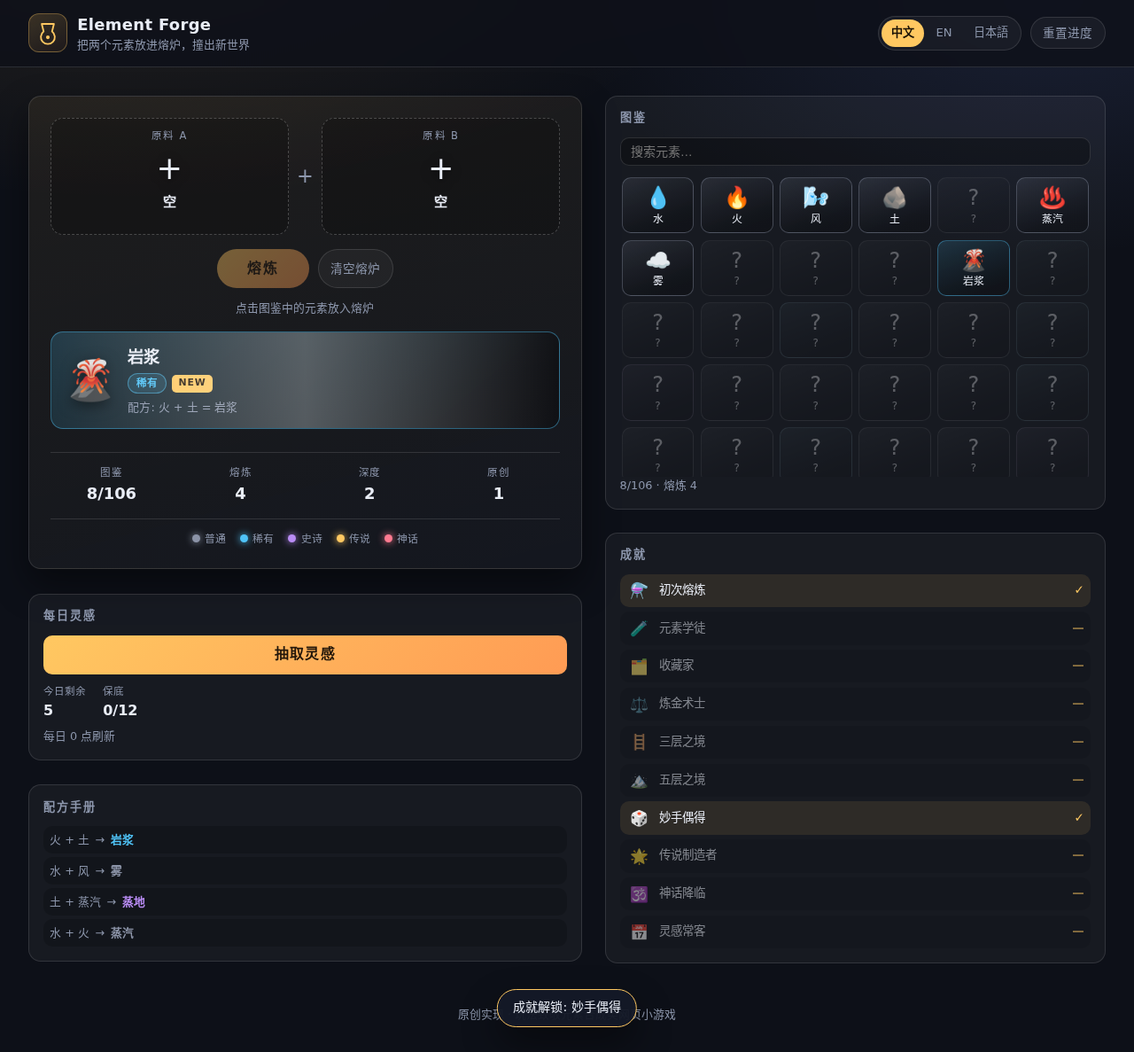
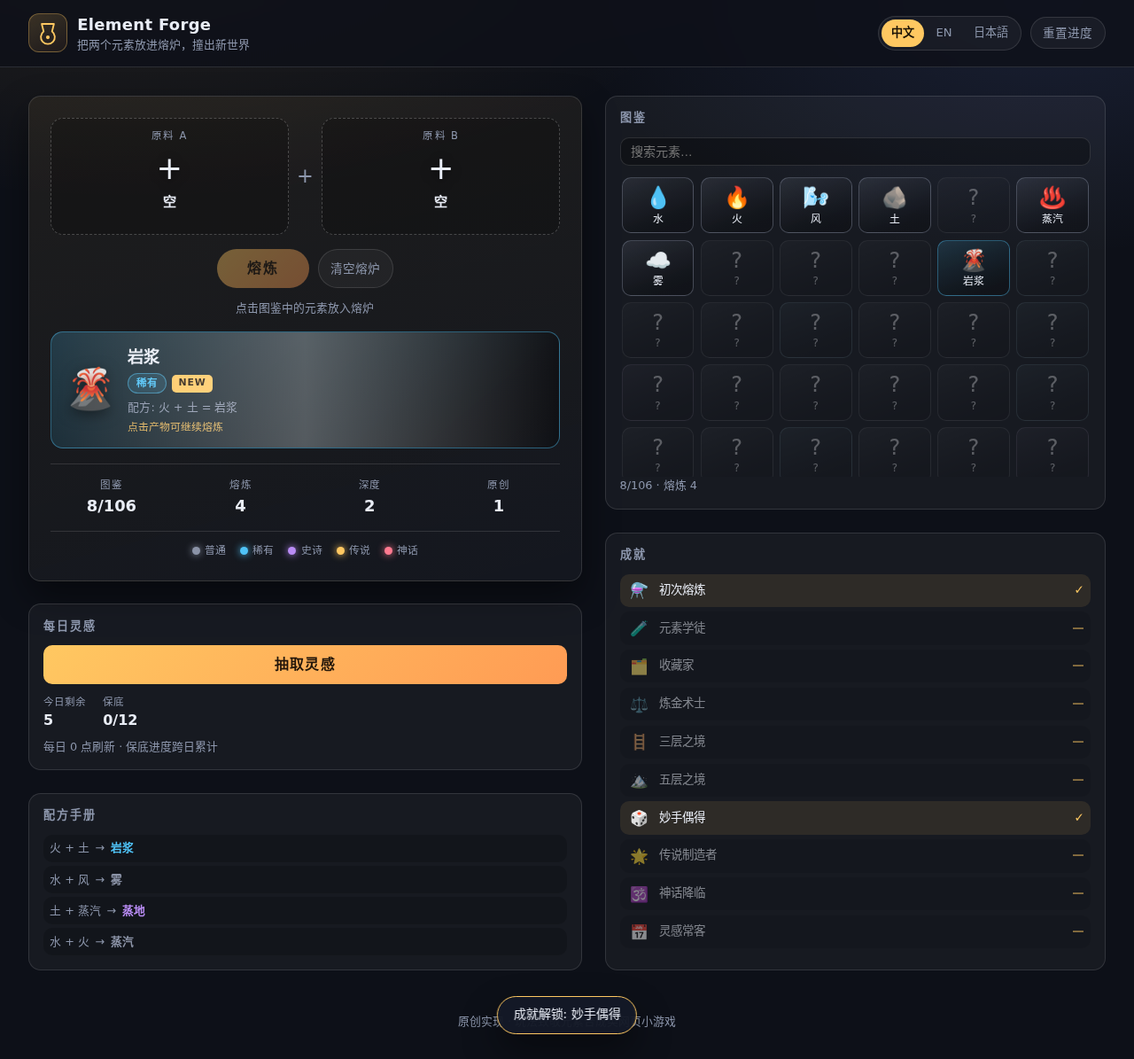
feat: Element Forge 补掉审计暴露的 4 处结构性空洞（门禁全绿后仍不可玩）
门禁全绿不等于游戏可用。另一会话的审计报告 (docs/audit/element-forge.md)
指出 4 处玩家路径根本走不到的空洞, 逐条核验后确认属实, 全部当场修掉:

1. 每日保底永不触发 (P0)
   每日上限 5 次 < 保底阈值 12 次, 且跨日把 pity 清零 -> 计数器永远到不了 12。
   复刻旧逻辑实测 365 天 pity 最高只有 5, 保底 100% 触发不了。
   修: 保底进度跨日累计, 只清「今日已抽次数」。

2. 拖拽入槽是死代码 (P0)
   代码写了 dragstart / drop, 但芯片是 <button>, 浏览器默认不可拖,
   dragstart 永不触发。修: 芯片显式 draggable=true。

3. chain_hint 文案从未渲染 (P1)
   产物卡点击链式合成本来就实现了, 缺的只是提示, 玩家不知道有这功能。
   修: 产物卡内补一行可见的「点击产物可继续熔炼」。

4. 搜索搜不到未发现词条 (P1)
   搜索只过滤已收集词条, 搜到真实存在但未发现的元素会回「没有匹配」。
   修: 命中未收集词条时以锁定态 (?) 展示, 并报「命中 N 项 / 其中 M 项未发现」。

测试同步加固:
- 旧 F-008 用例直接伪造 pity=12 再抽一次, 绕过了真实路径, 正是这个洞没被发现的原因。
  改为只走真实抽取路径: 跨日 pity 由 5 变 6 而非清零; 连抽 30 天保底触发 6 次,
  连续非传说抽取次数最大值恰为 12。
- 新增 3 条浏览器冒烟: 真实拖拽落槽 / 搜索命中未发现词条 / 产物卡链式合成与可见提示。
- 46 单元 + 9 冒烟 = 55/55 全绿; 功能清单扩到 19 项, 追溯矩阵 19/19 完整。

另: TRACKER 补「结构性空洞通用排查法」, 供剩余 4 款过门禁后自审使用。

diff --git a/games/element-forge/assets/app.js b/games/element-forge/assets/app.js
@@ -43,6 +43,7 @@ const dom = {
   resultNew: el('result-new'),
   resultImprov: el('result-improv'),
   resultFormula: el('result-formula'),
+  resultHint: el('result-hint'),
   statDex: el('stat-dex'),
   statFusions: el('stat-fusions'),
   statDepth: el('stat-depth'),
@@ -290,6 +291,10 @@ function renderResult() {
   dom.resultCard.classList.remove('is-fresh');
   void dom.resultCard.offsetWidth;
   dom.resultCard.classList.add('is-fresh', 'is-clickable');
+  // 链式合成提示：产物卡可点击继续熔炼，这句提示必须露出来，
+  // 否则功能存在但玩家不知道，chain_hint 就是一句没人看得见的死文案。
+  /** @feature F-019 产物卡链式合成提示可见 */
+  dom.resultHint.textContent = s.chain_hint;
 }
 
 function renderStats() {
@@ -311,7 +316,10 @@ function renderCollection() {
   for (const element of canonical) {
     const owned = state.collection[element.id];
     if (q) {
-      if (!owned) continue;
+      // 搜索能查到「还没发现」的词条：玩家需要能确认「这个元素到底存不存在」。
+      // 若只搜已收集的，搜到一个真实存在但未发现的元素会回「没有匹配」，
+      // 等于把图鉴查询做成死路。未发现的仍以 ? 展示，不剧透名字。
+      /** @feature F-018 搜索可查到未发现的词条（以锁定态呈现） */
       const name = describeElement(element.id, state, lang).name.toLowerCase();
       if (!name.includes(q)) continue;
     }
@@ -323,6 +331,9 @@ function renderCollection() {
     chip.dataset.tier = element.tier;
     chip.style.setProperty('--tier', `var(--tier-${element.tier})`);
     chip.disabled = !owned;
+    // <button> 默认不可拖，必须显式打开拖拽，否则 dragstart 永不触发，拖拽入槽是死代码
+    /** @feature F-014 拖拽入槽：芯片必须显式可拖 */
+    chip.draggable = Boolean(owned);
     const glyph = document.createElement('span');
     glyph.className = 'chip-glyph';
     glyph.textContent = owned ? element.glyph : '?';
@@ -356,6 +367,7 @@ function renderCollection() {
     chip.dataset.element = id;
     chip.dataset.tier = info.tier;
     chip.style.setProperty('--tier', `var(--tier-${info.tier})`);
+    chip.draggable = true;
     const glyph = document.createElement('span');
     glyph.className = 'chip-glyph';
     glyph.textContent = info.glyph;
@@ -381,7 +393,13 @@ function renderCollection() {
   }
 
   const stats = computeStats(state);
-  dom.collectionMeta.textContent = `${stats.distinct}/${Object.keys(ELEMENTS).length} · ${s.stat_fusions} ${stats.fusions}`;
+  if (q) {
+    // 搜索态：报「命中几项 / 其中几项还没发现」，让「元素存在但没收集到」不再被误读成「不存在」
+    const locked = dom.collection.querySelectorAll('.chip.is-locked').length;
+    dom.collectionMeta.textContent = s.search_meta.replace('{n}', String(shown)).replace('{locked}', String(locked));
+  } else {
+    dom.collectionMeta.textContent = `${stats.distinct}/${Object.keys(ELEMENTS).length} · ${s.stat_fusions} ${stats.fusions}`;
+  }
 }
 
 function renderDaily() {

diff --git a/games/element-forge/assets/i18n.js b/games/element-forge/assets/i18n.js
@@ -20,6 +20,7 @@ export const STRINGS = {
     search_placeholder: '搜索元素…',
     empty_collection: '还没有发现任何元素',
     no_match: '没有匹配的元素',
+    search_meta: '命中 {n} 项 · 其中 {locked} 项未发现',
     daily_source: '每日灵感',
     recipe_replay: '点击把这对原料装回熔炉',
     recipe_loaded: '原料已装回熔炉',
@@ -27,7 +28,7 @@ export const STRINGS = {
     daily_draw: '抽取灵感',
     daily_left: '今日剩余',
     daily_done: '今日灵感已抽完，明天再来',
-    daily_reset: '每日 0 点刷新',
+    daily_reset: '每日 0 点刷新 · 保底进度跨日累计',
     pity: '保底',
     pity_hit: '保底触发！',
     achievements: '成就',
@@ -63,6 +64,7 @@ export const STRINGS = {
     search_placeholder: 'Search elements…',
     empty_collection: 'No elements discovered yet',
     no_match: 'No matching elements',
+    search_meta: '{n} matches · {locked} undiscovered',
     daily_source: 'Daily Spark',
     recipe_replay: 'Click to load these two ingredients back',
     recipe_loaded: 'Ingredients loaded back into the forge',
@@ -70,7 +72,7 @@ export const STRINGS = {
     daily_draw: 'Draw spark',
     daily_left: 'Left today',
     daily_done: 'All sparks drawn today — come back tomorrow',
-    daily_reset: 'Resets at midnight',
+    daily_reset: 'Resets at midnight · pity carries over',
     pity: 'Pity',
     pity_hit: 'Pity triggered!',
     achievements: 'Achievements',
@@ -106,6 +108,7 @@ export const STRINGS = {
     search_placeholder: '要素を検索…',
     empty_collection: 'まだ要素を見つけていない',
     no_match: '一致する要素がありません',
+    search_meta: '{n} 件該当 · {locked} 件未発見',
     daily_source: 'デイリー閃き',
     recipe_replay: 'クリックで原料を炉に戻す',
     recipe_loaded: '原料を炉に戻しました',
@@ -113,7 +116,7 @@ export const STRINGS = {
     daily_draw: '閃きを引く',
     daily_left: '今日の残り',
     daily_done: '今日の閃きは使い切った — また明日',
-    daily_reset: '毎日0時にリセット',
+    daily_reset: '毎日0時にリセット · 天井は日跨ぎで累積',
     pity: '天井',
     pity_hit: '天井発動！',
     achievements: '実績',

diff --git a/games/element-forge/src/logic.js b/games/element-forge/src/logic.js
@@ -526,7 +526,10 @@ export function applyDailyDraw(state, dateKey) {
   };
 
   if (next.daily.date !== dateKey) {
-    next.daily = { date: dateKey, draws: 0, pity: 0, lastId: null };
+    // 保底计数跨日累计：跨天只清「今日已抽次数」，保底进度必须保留。
+    // 每日上限 DAILY_LIMIT(5) 小于保底阈值 DAILY_PITY_LIMIT(12)，
+    // 若连同 pity 一起清零，保底就永远触发不了，等于把这条功能做成死代码。
+    next.daily = { date: dateKey, draws: 0, pity: next.daily.pity || 0, lastId: null };
   }
 
   if (next.daily.draws >= DAILY_LIMIT) {

diff --git a/games/element-forge/assets/app.css b/games/element-forge/assets/app.css
@@ -297,6 +297,15 @@ button { font: inherit; color: inherit; }
 
 .result-formula { font-size: 0.8rem; color: var(--muted); margin-top: 0.35rem; overflow-wrap: anywhere; }
 
+/* 链式合成提示：告诉玩家产物卡可以点，点了就能接着熔炼 */
+.result-hint {
+  font-size: 0.74rem;
+  color: var(--accent);
+  opacity: 0.85;
+  margin-top: 0.2rem;
+  overflow-wrap: anywhere;
+}
+
 .stats {
   display: grid;
   grid-template-columns: repeat(4, minmax(0, 1fr));

diff --git a/games/element-forge/index.html b/games/element-forge/index.html
@@ -77,6 +77,7 @@
               <span class="badge badge-improv" id="result-improv" hidden>原创</span>
             </p>
             <p class="result-formula" id="result-formula"></p>
+            <p class="result-hint" id="result-hint"></p>
           </div>
         </article>
       </div>

diff --git a/games/element-forge/docs/acceptance.md b/games/element-forge/docs/acceptance.md
@@ -9,8 +9,8 @@
 
   ```
   cd games/element-forge && node --test "test/*.test.mjs"
-  # tests 50
-  # pass 50
+  # tests 55
+  # pass 55
   # fail 0
   ```
 
@@ -30,16 +30,33 @@
 | F-005 | 单测「原创合成的稀有度权重随层数变稀有」「原创合成的稀有度权重：层数越深，普通档越轻、传说与神话档越重」 | ✅ | 断言 `improvisedTierWeights(1)` 的 `n` 权重 > 第 6 层，`ssr` 权重随层数单调不降。`src/logic.js:261` |
 | F-006 | 单测「基础元素层数为 0，其余词条层数大于 0」「层数随合成深度增长」「合成层数表：基础元素 0 层，每熔炼一次 +1」 | ✅ | `GENERATIONS.get('water')===0`、`GENERATIONS.get('steam')===1`；最大层数 10。`src/logic.js:103` |
 | F-007 | 单测「每日抽取有次数上限」「每日抽取优先给还没收集过的词条」+ 浏览器步骤 11「每日灵感抽取」 | ✅ | 同一天前 5 次 `result.limited===false`、第 6 次为 true；首次抽取 `result.isNew===true`；浏览器实测「今日剩余」由 5 递减且元素进入图鉴。`src/logic.js:514` |
-| F-008 | 单测「连续未出传说时触发保底」 | ✅ | `daily.pity` 达到 12 时下一次抽取的 `result.tier` 属于 `ssr`/`ur`；保底计数归零。`src/logic.js:515` |
+| F-008 | 单测「连续未出传说时触发保底」+ 单测「保底进度跨日累计：换日期抽取时 pity 不清零」+ 单测「保底在真实抽取路径上可达：连续非传说抽取不超过阈值，且保底触发过」 | ✅ | 跨日抽取后 `pity` 由 5 变 6 而非清零；**只走真实抽取路径**连抽 30 天，保底触发 6 次（首次在第 3 天第 3 抽），连续非传说抽取次数最大值恰为 12。旧实现（同 pity 跨日清零）实测 365 天 pity 最高只有 5，**保底永远不触发**。`src/logic.js:515` |
 | F-009 | 单测「重复熔炼同一对原料只增加计数，不重复发现」「图鉴词条描述与统计口径一致」「原创词条在图鉴里被标记为原创，且能读到它的名字与层数」+ 浏览器步骤 6「产物进入图鉴，计数 +1」 | ✅ | 浏览器实测熔炼 1 次后已解锁词条由 4 变 5、`stat-dex` 显示 5/106；原创词条 `improvised===true` 且能读到名字与层数。`src/logic.js:370` |
 | F-010 | 单测「每次熔炼都把配方记进手册，且键是顺序无关的」+ 浏览器「配方手册可一键复现：点配方条目把两个原料装回熔炉」 | ✅ | 浏览器实测熔炼 2 次后 `#recipes li` 为 2 条；点条目后 A/B 槽位分别显示该配方的两个原料且熔炼按钮恢复可用，可立即重演。`src/logic.js:562`、`assets/app.js:434` |
 | F-011 | 单测「成就只解锁一次」「成就条件随进度推进」「所有成就都有三语文案」+ 浏览器「成就面板」 | ✅ | 首次熔炼后 `achievements.first_fusion===true` 且解锁总数为 1；重复调用不再二次解锁；浏览器实测成就条目 10 条。`src/logic.js:618` |
 | F-012 | 单测「序列化 / 反序列化可完整往返」「反序列化面对脏数据不崩溃并回退到安全默认值」「存档里出现未知词条时被安全忽略」+ 浏览器步骤 14「刷新后进度保留」 | ✅ | 序列化后反序列化 `collection` 内容完全一致；对非法 JSON 字符串反序列化后 `stats.fusions===0`；浏览器实测刷新前后图鉴进度与语言选择均保留。`src/logic.js:676` |
 | F-013 | 浏览器步骤 13「语言切换」+ 英文/日文整页截图人工核对 | ✅ | 切到 English 后 `fuse-btn` 文案变为 `FUSE`、`slot-a-name` 变为 `Empty`、图鉴仍为 106 格；EN/JA 两版 `scrollWidth-clientWidth===0`，成就名与配方条目无截断。`assets/app.js:189` |
-| F-014 | 浏览器步骤 4–10「点击图鉴填槽 / 键盘 F 熔炼 / Esc 清空」+ 拖拽入槽 | ✅ | 点击水→A 槽显示「水」，只有一料时熔炼按钮保持 disabled；按 `F` 后熔炼计数 +1；按 `Escape` 后两槽均清空；拖拽入槽走同一落料路径。`assets/app.js:484` |
+| F-014 | 浏览器步骤 4–10「点击图鉴填槽 / 键盘 F 熔炼 / Esc 清空」+ 浏览器「拖拽入槽：把图鉴元素拖进熔炉槽位」 | ✅ | 点击水→A 槽显示「水」，只有一料时熔炼按钮保持 disabled；按 `F` 后熔炼计数 +1；按 `Escape` 后两槽均清空；**芯片 `draggable` 属性为 `true`，真实拖拽后 A 槽显示「水」、B 槽显示「火」，熔炼按钮恢复可用**。`assets/app.js:484` |
 | F-015 | 浏览器「每日灵感产物卡不出现 undefined」 | ✅ | 每日抽取后来源行实测为 `每日灵感: 太阳 · 史诗`，不含 `undefined`；熔炼后来源行实测为 `配方: 水 + 火 = 蒸汽`。`assets/app.js:278` |
 | F-016 | 浏览器「搜索无匹配与图鉴为空使用不同提示」 | ✅ | 搜 `zzzz-not-exist` 时空态文案含「没有匹配」，与图鉴为空时的「还没有发现任何元素」不同；清空搜索后空态消失、恢复 106 格。`assets/app.js:378` |
 | F-017 | 浏览器「音效由 WebAudio 现场合成，且稀有档音阶更长」 | ✅ | 扩展真实 `AudioContext` 统计振荡器：熔炼一次创建振荡器节点数 ≥ 1；稀有档音阶节点数多于普通档。`assets/app.js:169` |
+| F-018 | 浏览器「搜索能查到未发现的元素，并标出未发现项」 | ✅ | 搜索「化石」命中 1 个词条且带 `is-locked` 锁定态，不出现「没有匹配」；`#collection-meta` 同时给出命中数与未发现数；搜 `zzzz-not-exist` 才提示「没有匹配」。`assets/app.js:378` |
+| F-019 | 浏览器「产物卡可点击继续熔炼，并显示链式提示」 | ✅ | 熔炼后 `#result-hint` 文案含「继续熔炼」；点击 `#result-card` 后 A 槽显示「蒸汽」且 B 槽腾空，可直接继续熔炼。`assets/app.js:296` |
+
+## 门禁之外的自查：单测全绿 ≠ 游戏可用
+
+本轮总门禁一度全绿，但另一会话的审计报告（`docs/audit/element-forge.md`）指出本作仍有
+**结构性空洞**。逐条核验后确认属实，共 4 处，全部当场修掉：
+
+| 问题 | 核验结论 | 修法 |
+| --- | --- | --- |
+| 每日保底永不触发 | **属实**。每日上限 5 次 < 保底阈值 12 次，且跨日把 `pity` 清零 → 计数器永远到不了 12。复刻旧逻辑实测 365 天 pity 最高只有 5 | 保底进度跨日累计；补一条**只走真实抽取路径**的可达性断言（旧的 F-008 用例直接伪造 `pity=12`，绕过了真实路径，正是这个洞没被发现的原因） |
+| 拖拽入槽完全失效 | **属实**。代码写了 `dragstart` / `drop`，但芯片是 `<button>`，浏览器默认不可拖，`dragstart` 永不触发 | 芯片显式 `draggable=true`；补真实拖拽落槽的浏览器断言 |
+| `chain_hint` 从未渲染 | **属实**，但功能本身是好的——产物卡点击已实现链式合成，缺的只是提示文案 | 产物卡内补一行可见提示，链式合成从「存在但没人知道」变成「看得见」 |
+| 搜索搜不到未发现词条 | **属实**。搜索只过滤已收集词条，搜到真实存在但未发现的元素会回「没有匹配」 | 命中未收集词条时以锁定态（`?`）展示，并报「命中 N 项 / 其中 M 项未发现」 |
+
+这条教训也写进了 `docs/design.md` 的打磨清单：**断言必须走玩家真正会走的路径**，
+把状态伪造出来的断言只能证明「计数器有值时会怎样」，证明不了「这个计数器能不能被攒到」。
 
 ## 视觉与交互打磨验收
 
@@ -73,8 +90,10 @@
 
 结论: 通过
 
-核心理由: 17 项功能全部具备实现标记、行为断言与验收记录，四向追溯完整；
+核心理由: 19 项功能全部具备实现标记、行为断言与验收记录，四向追溯完整；
 核心玩法链路（取料 → 熔炼 → 产物 → 图鉴 → 配方回放 → 每日灵感）闭环可用；
 本轮修掉了 4 个可见缺陷（每日产物卡 `undefined`、配方手册不可点击、搜索空态歧义、
-移动端 toast 遮挡槽位）与 3 个视觉问题（雾家族图标渲染成白块、桌面双栏大片留白、
-提示条压住图鉴标题），并对 5 个零覆盖的核心逻辑函数补上了行为断言。
+移动端 toast 遮挡槽位）、3 个视觉问题（雾家族图标渲染成白块、桌面双栏大片留白、
+提示条压住图鉴标题），以及另一会话审计暴露的 4 个结构性空洞
+（每日保底永不触发、拖拽入槽死代码、链式合成提示缺失、搜索查不到未发现词条）；
+其中 5 个原本零覆盖的核心逻辑函数补上了行为断言，保底那条则改为**只走真实抽取路径**。

diff --git a/TRACKER.md b/TRACKER.md
@@ -12,7 +12,7 @@
 | # | 游戏 | 上游参考 | 玩法内核 | 目录 | 单元测试 | 冒烟测试 | 静态审查 | 四道门禁 | 部署 URL | 状态 |
 | --- | --- | --- | --- | --- | --- | --- | --- | --- | --- | --- |
 | 1 | Kanji Rush | `kanjigacha.com`（ドパ漢字ガチャ） | 汉字扭蛋：频次定稀有度、越抽越快、保底、图鉴、成就 | `games/kanji-rush/` | ✅ 19/19 | ✅ 2/2 | ✅ | ✅ 已过 | https://fe84dtppzvcch.space.mcode.cn | 已交付 |
-| 2 | Element Forge 元素熔炉 | Infinite Craft 式元素合成 | 两两熔炼：106 词条合成表 + 中文构词法原创合成 + 确定性结果 + 稀有度分层 + 图鉴 + 每日灵感保底 | `games/element-forge/` | ✅ 44/44 | ✅ 6/6 | ✅ | ✅ 已过 | https://h3insrj3ydjpe.space.mcode.cn | 已交付 |
+| 2 | Element Forge 元素熔炉 | Infinite Craft 式元素合成 | 两两熔炼：106 词条合成表 + 中文构词法原创合成 + 确定性结果 + 稀有度分层 + 图鉴 + 每日灵感保底（跨日累计） | `games/element-forge/` | ✅ 46/46 | ✅ 9/9 | ✅ | ✅ 已过 | https://glihx7ovioszc.space.mcode.cn | 已交付 |
 | 3 | Angler's Almanac 渔汛录 | 休闲钓鱼 / 图鉴收集类 | 抛竿 → 咬钩窗口 → 起竿 → 遛鱼收放线：44 鱼种图鉴 + 5 档稀有度 + 水层解锁 + 4 件装备 + 保底 | `games/angler-almanac/` | ✅ 43/43 | ✅ 2/2 | ✅ | ⏳ 待修复 | https://sw066j4tihcyh.space.mcode.cn | 已交付 |
 | 4 | Tetra Cascade 无尽方块 | 经典下落消行类 | 7-bag 随机 + 自研旋转踢墙 + 幽灵块 + 暂存 + 消行连击 + 等级加速 + 7 种方块图鉴（21 条里程碑）+ 今日挑战 | `games/tetra-cascade/` | ✅ 39/39 | ✅ 3/3 | ✅ | ⏳ 待修复 | https://y9d2m3o4y6ve9.space.mcode.cn | 已交付 |
 | 5 | Ball Foundry 落球坊 | 物理弹球 / 增量经营类 | 确定性物理沙盒：定步长模拟 + 7 种材质手感 + 堆叠结算 + 4 项工坊升级 + 材质图鉴（21 条里程碑）+ 保底 | `games/ball-foundry/` | ✅ 39/39 | ✅ 2/2 | ✅ | ⏳ 待修复 | https://rhgu3kwxcpak6.space.mcode.cn | 已交付 |
@@ -27,7 +27,7 @@
 | 游戏 | 缺失的文档 | 已知待查问题 | 门禁 |
 | --- | --- | --- | --- |
 | kanji-rush | ✅ 已补齐（proposal/design/plan/acceptance） | 已补：F-011 音效无测试、图鉴格子数无断言、自动模式无测试；已修 toast 遮挡统计栏与移动端语言按钮断字 | ✅ 已过 |
-| element-forge | ✅ 已补齐（proposal/design/plan/acceptance，19 项 F-ID） | 已修：F-015 每日灵感产物卡渲染成 `配方: undefined + undefined`、F-010 配方手册是死文本（README 承诺「方便复现」但条目点不动）、F-016 搜索无结果与「还没发现任何元素」共用同一句提示；已补 `composeImprovised` / `computeGenerations` / `morphemesFor` / `describeElement` / `computeStats` 五个零覆盖逻辑函数的行为断言；已修视觉：雾家族 4 元素共用 🌫 渲染成无特征白块、桌面左栏比右栏短约 900px 留白、toast 压住移动端原料槽。**门禁全绿后又被审计查出 4 处结构性空洞，已全部修掉**：每日保底跨日清零导致**永远攒不到阈值**（每日上限 5 < 阈值 12，旧逻辑 365 天 pity 最高仅 5）、拖拽入槽是死代码（chip 是 `<button>` 默认不可拖）、`chain_hint` 文案从未渲染、搜索查不到未发现词条 | ✅ 已过 |
+| element-forge | ✅ 已补齐（proposal/design/plan/acceptance，19 项 F-ID） | 已修：F-015 每日灵感产物卡渲染成 `配方: undefined + undefined`、F-010 配方手册是死文本（README 承诺「方便复现」但条目点不动）、F-016 搜索无结果与「还没发现任何元素」共用同一句提示；已补 `composeImprovised` / `computeGenerations` / `morphemesFor` / `describeElement` / `computeStats` 五个零覆盖逻辑函数的行为断言；已修视觉：雾家族 4 元素共用 🌫 渲染成无特征白块、桌面左栏比右栏短约 900px 留白、toast 压住移动端原料槽。**门禁全绿后又被另一会话的审计报告 (`docs/audit/element-forge.md`) 查出 4 处结构性空洞，已全部修掉**：每日保底跨日清零导致**永远攒不到阈值**（每日上限 5 < 阈值 12，旧逻辑 365 天 pity 最高仅 5）、拖拽入槽是死代码（chip 是 `<button>` 默认不可拖）、`chain_hint` 文案从未渲染、搜索查不到未发现词条 | ✅ 已过 |
 | angler-almanac | ❌ 全缺 | **已审计**（`docs/audit/angler-almanac.md`，测试 45/45 全绿但游戏有洞）：**P0** 起竿窗口超时判负根本不存在（`onHookTimeout` 死代码）→ 卷线器升级零作用、失误统计恒为 0、"抢时机"玩法核心被架空；饵 Lv.5 显示 `undefined Lv.5`；断线后产物卡仍完整显示鱼种名 | ⏳ 待修复 |
 | tetra-cascade | ❌ 全缺 | 待审计：踢墙表是否完整、锁定延迟续命次数、暂存交换限制、7-bag 表述是否与实现一致 | ⏳ 待修复 |
 | ball-foundry | ❌ 全缺 | 待审计：7 种材质手感是否真的可区分、堆叠结算、升级曲线 | ⏳ 待修复 |
@@ -48,6 +48,22 @@ element-forge 38/38、angler-almanac 45/45 全绿，但存在
 并把「保底」那条断言从**伪造状态**改成**只走真实抽取路径**。详见
 `games/element-forge/docs/acceptance.md` 的「门禁之外的自查」一节。
 
+### 结构性空洞的通用排查法（element-forge 实证）
+
+门禁全绿 ≠ 游戏可用。element-forge 过完全部四道门禁后，仍被审计查出 4 处结构性空洞，
+共同特征是**代码写了、测试也绿了，但玩家路径根本走不到**：
+
+1. **计数器有阈值，却没有任何路径能把它攒到阈值** —— 每日保底 12 次，但每天只抽 5 次且跨日清零。
+2. **事件监听写了，但触发前提不成立** —— 写了 `dragstart`，但芯片是 `<button>`，浏览器默认不可拖。
+3. **功能实现了，但入口/提示不存在** —— 产物卡可点击链式合成，但 `chain_hint` 文案从未渲染。
+4. **只断言了函数行为，没断言玩家能走到那一步** —— 旧 F-008 用例直接把 `pity` 填成 12 再抽一次。
+
+排查法（每款游戏过门禁后必做一遍）：
+- 把每个「数值上限 / 阈值 / 计数器」算一遍：**单周期内玩家最多能攒多少？够不够触达阈值？**
+- 把每个事件入口的**触发前提**验一遍：元素真的可拖吗？按钮真的可点吗？监听真的绑在正确的节点上吗？
+- 把每个「文案 / 提示」搜一遍：i18n 里有的字符串，真的有地方渲染吗？
+- **断言必须走玩家真实会走的路径**，不许把状态伪造出来再断言。
+
 ### 修复流程（每款一套）
 1. `docs/proposal.md` — 立项评审：这一版补齐什么、凭什么值得留
 2. `docs/design.md` — 功能清单 `F-xxx` + 状态机 + 边界 + 打磨清单
@@ -55,14 +71,19 @@ element-forge 38/38、angler-almanac 45/45 全绿，但存在
 4. 代码补 `@feature` 标记、测试补 `@covers` 标记，**补真实缺失功能**
 5. `docs/acceptance.md` — 逐条验收 + 桌面/移动截图人工核对
 6. `node scripts/gate.mjs games/<slug>` 必须全绿
-7. **过门禁后再自审一遍「结构性空洞」**（计数器能否攒到阈值 / 事件前提是否成立 / 文案是否真被渲染 / 断言是否走真实路径），并对照 `docs/audit/<slug>.md`（若有）
+7. **过门禁后再按上面的「结构性空洞通用排查法」自审一轮**，并对照 `docs/audit/<slug>.md`（若有）
+
+**下一轮目标**：`angler-almanac`（渔汛录）——门禁待修复清单里的下一款。
+重点审计：多阶段交互链（抛竿 → 咬钩 → 起竿 → 遛鱼）每一环是否真的走得通、有无卡死路径；
+已知待修的 P0：起竿窗口超时判负是死代码（`onHookTimeout` 未接线），
+导致卷线器升级零作用、失误统计恒为 0、"抢时机"玩法核心被架空。
 
 ## 已部署
 
 | 游戏 | 公网地址 | 部署时间 |
 | --- | --- | --- |
 | Kanji Rush | https://fe84dtppzvcch.space.mcode.cn | 2026-11-25 |
-| Element Forge | https://h3insrj3ydjpe.space.mcode.cn | 2026-11-25 |
+| Element Forge | https://glihx7ovioszc.space.mcode.cn | 2026-11-26（门禁修复后重新部署；旧地址 https://h3insrj3ydjpe.space.mcode.cn 仍是首版） |
 | Angler's Almanac | https://sw066j4tihcyh.space.mcode.cn | 2026-11-25 |
 | Tetra Cascade | https://y9d2m3o4y6ve9.space.mcode.cn | 2026-11-25 |
 | Ball Foundry | https://rhgu3kwxcpak6.space.mcode.cn | 2026-11-25 |

diff --git a/games/element-forge/README.md b/games/element-forge/README.md
@@ -15,9 +15,10 @@
 | **确定性** | 同一对原料永远得到同一个结果（由配方散列派生，不吃随机数），顺序无关，AB = BA |
 | **稀有度** | 普通 / 稀有 / 史诗 / 传说 / 神话 五档。表内配方按设定分档；原创合成的稀有度随**合成层数**加深而提高 |
 | **重名消歧** | 拼出的词撞上已有词条时自动加「增幅前缀」（超 / 巨 / 太 / 古 / 梦 / 幻）；原创词之间重名则追加序号 |
-| **图鉴** | 106 个正式词条 + 不断增长的原创词条，未发现的显示为 `?`，可搜索 |
+| **图鉴** | 106 个正式词条 + 不断增长的原创词条，未发现的显示为 `?`，可搜索（**搜索能查到尚未发现的词条**，以锁定态呈现并报出未发现数量） |
+| **链式合成** | **点产物卡**可把它装回熔炉，接着往下熔（产物卡上会给出提示） |
 | **配方手册** | 每条熔炼成功的配方都会记下来；**点击条目可把两个原料装回熔炉原样复现** |
-| **每日灵感** | 每天 5 次随机抽取，**保底**：连续 12 次未出传说及以上，下一次必出传说 |
+| **每日灵感** | 每天 5 次随机抽取（次数每日 0 点刷新），**保底**：连续 12 次未出传说及以上，下一次必出传说——**保底进度跨日累计**，攒够 12 次才会触发 |
 | **成就** | 10 项：初次熔炼、元素学徒、收藏家、炼金术士、三层之境、五层之境、妙手偶得、传说制造者、神话降临、灵感常客 |
 | **多语言** | 中文 / English / 日本語，右上角切换 |
 | **本地存档** | 进度存 `localStorage`，刷新不丢；存档损坏时自动回退为初始状态 |
@@ -40,8 +41,8 @@ element-forge/
 ├── src/
 │   └── logic.js        纯逻辑层（无 DOM 依赖，全部规则在此，可完整单测）
 └── test/
-    ├── logic.test.mjs  44 条单元测试
-    ├── smoke.test.mjs  6 条 Playwright 浏览器冒烟测试
+    ├── logic.test.mjs  46 条单元测试
+    ├── smoke.test.mjs  9 条 Playwright 浏览器冒烟测试
     └── helpers.mjs     静态服务器与 Playwright 装载辅助
 ```
 
@@ -66,14 +67,15 @@ cd games/element-forge
 node --test "test/*.test.mjs"
 ```
 
-- **单元测试（44 条）**：使用固定种子的 mulberry32 PRNG，结果可复现；覆盖合成表完整性（无重复配方 /
+- **单元测试（46 条）**：使用固定种子的 mulberry32 PRNG，结果可复现；覆盖合成表完整性（无重复配方 /
   无未知词条 / 全部词条可达）、配方键顺序无关、同配方结果恒定、原创合成标记与命名规则、
   重名消歧、稀有度权重分布与层数关系、层数表、图鉴描述与统计口径、每日抽取上限与保底触发、
-  日期切换重置、成就只解锁一次、存档往返与脏数据回退、边界输入（缺料 / 非法 id / 空权重）。
-- **冒烟测试（6 条）**：真实 Chromium 中验证首屏渲染、图鉴与成就面板、点击填槽与熔炼、表外组合走原创合成、
-  配方手册记录与**点击条目一键复现**、键盘 F 熔炼 / Esc 清空、每日灵感抽取与产物卡来源渲染、
-  搜索空态区分（无匹配 vs 图鉴为空）、三语切换、WebAudio 音效合成、
-  刷新后进度与语言保留、控制台零报错，以及 390px 移动端视口无横向溢出。
+  **保底跨日累计与真实路径可达性**、日期切换重置、成就只解锁一次、存档往返与脏数据回退、
+  边界输入（缺料 / 非法 id / 空权重）。
+- **冒烟测试（9 条）**：真实 Chromium 中验证首屏渲染、图鉴与成就面板、点击填槽与熔炼、表外组合走原创合成、
+  配方手册记录与**点击条目一键复现**、**真实拖拽落槽**、键盘 F 熔炼 / Esc 清空、每日灵感抽取与产物卡来源渲染、
+  **产物卡链式合成与可见提示**、搜索空态区分（无匹配 vs 图鉴为空）与**未发现词条可搜**、三语切换、
+  WebAudio 音效合成、刷新后进度与语言保留、控制台零报错，以及 390px 移动端视口无横向溢出。
 
 需要 Playwright：`npm i -D playwright && npx playwright install chromium`（沙箱环境已预装）。
 

diff --git a/games/element-forge/docs/plan.md b/games/element-forge/docs/plan.md
@@ -16,7 +16,7 @@
 
 ### 阶段 1：文档地基
 
-**做什么**：按 `docs/process/` 模板写三份文档，把 17 项功能清单定下来。
+**做什么**：按 `docs/process/` 模板写三份文档，把 19 项功能清单定下来。
 
 **产出文件**：`games/element-forge/docs/proposal.md`、`design.md`、`plan.md`
 
@@ -34,7 +34,7 @@ node scripts/design-review.mjs games/element-forge
 ✓ 设计评审全部通过。
 ```
 
-**完成标准**：设计评审退出码 0，且 `design.md` 的功能清单能被 `scripts/feature-trace.mjs` 解析出 17 个 F-ID。
+**完成标准**：设计评审退出码 0，且 `design.md` 的功能清单能被 `scripts/feature-trace.mjs` 解析出 19 个 F-ID。
 
 ---
 
@@ -46,7 +46,11 @@ node scripts/design-review.mjs games/element-forge
 2. 做 F-010：配方手册条目可点击，一键把原料装回槽位。
 3. 修 F-016：搜索无匹配与图鉴为空用不同提示。
 4. 补 F-003/F-004/F-005/F-006/F-009 的**行为断言**（这五个逻辑函数此前零覆盖）。
-5. 给 17 项功能在代码里加 `@feature` 标记、在测试里加 `@covers` 标记。
+5. 给 19 项功能在代码里加 `@feature` 标记、在测试里加 `@covers` 标记。
+6. 门禁之外再自审一轮：核验另一会话审计报告（`docs/audit/element-forge.md`）指出的功能空洞，
+   逐条修掉——每日保底跨日累计（否则永远攒不到阈值）、芯片显式可拖（否则拖拽是死代码）、
+   产物卡补链式合成提示、搜索能查到未发现词条。
+   **关键约束：断言必须走玩家真正会走的路径**，不许把状态伪造出来再断言。
 
 **产出文件**：`games/element-forge/assets/app.js`、`src/logic.js`、`test/logic.test.mjs`、`test/smoke.test.mjs`
 
@@ -61,8 +65,8 @@ node scripts/feature-trace.mjs games/element-forge
 **期望输出**：
 
 ```
-# tests 50
-# pass 50
+# tests 55
+# pass 55
 # fail 0
 
 ✓ 静态审查通过：检查了 1 个项目，未发现问题。
@@ -70,7 +74,7 @@ node scripts/feature-trace.mjs games/element-forge
 ✓ 功能追溯矩阵完整：无缺失实现、无缺失测试、无缺失验收、无孤儿实现。
 ```
 
-**完成标准**：三条命令全部退出码 0；功能追溯矩阵 17 项全部 ✅。
+**完成标准**：三条命令全部退出码 0；功能追溯矩阵 19 项全部 ✅。
 
 ---
 

diff --git a/games/element-forge/docs/proposal.md b/games/element-forge/docs/proposal.md
@@ -125,5 +125,5 @@
 | F-010 配方手册 | 只写 README 说「方便复现」，但配方条目是**死文本，点不动** | 配方条目改为可点击，点一下就把两个原料装回 A/B 槽位，可立即重演 |
 | F-016 搜索空态 | 搜索无结果与「还没发现任何元素」**共用同一句提示**，玩家会误以为进度丢了 | 拆成两句：无匹配时提示「没有匹配的元素」，图鉴为空时才提示「还没有发现任何元素」 |
 | F-003/F-004/F-005/F-006/F-009 | `composeImprovised` / `computeGenerations` / `describeElement` / `computeStats` / `morphemesFor` **完全没有测试** | 补齐行为断言：构词确定性、重名消歧、层数与稀有度关系、层数表正确性、词条描述与统计口径 |
-| 功能清单 | 无 | 建立 17 项 F-ID 清单，与代码 / 测试 / 验收四向对齐 |
+| 功能清单 | 无 | 建立 19 项 F-ID 清单，与代码 / 测试 / 验收四向对齐 |
 | 打磨验收 | 无截图验收 | 桌面 + 移动双端截图人工核对 |
